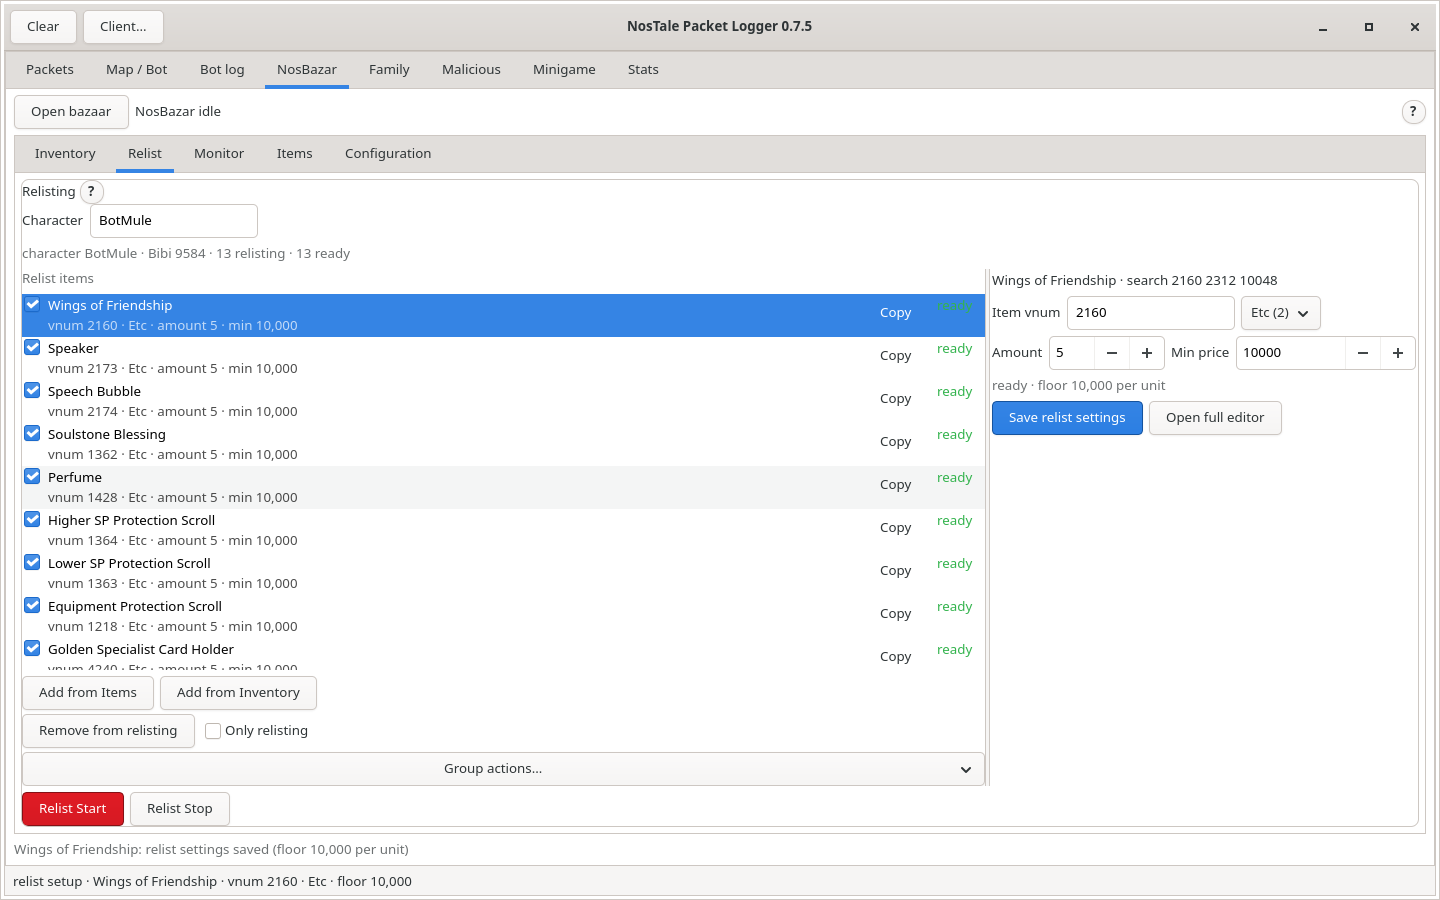
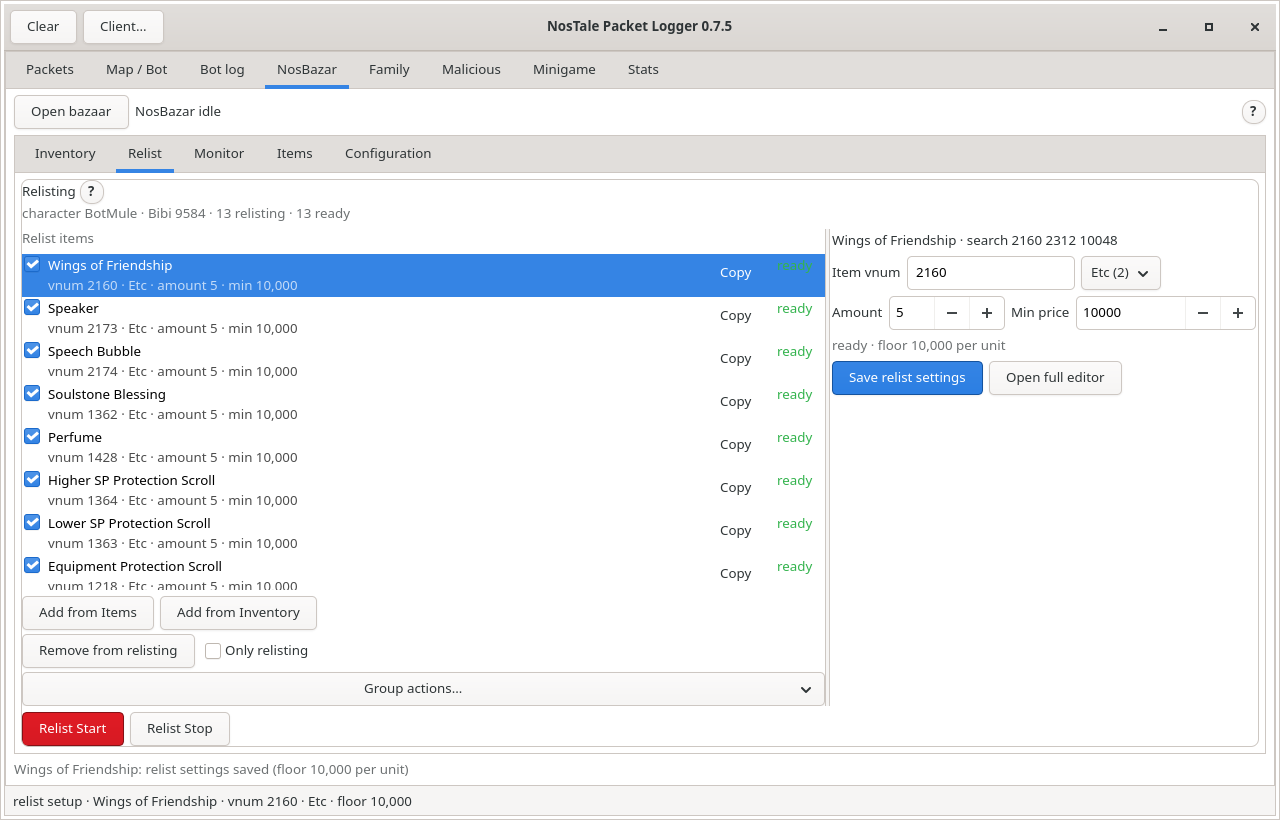
Relist without a name field; show the name above HP/MP
The character name no longer has to be filled in anywhere:

- The Relist section drops the Character row. Own listings are matched
  by character id: BazarListing now carries the rc_blist owner id (field
  1), the controller compares it with self_id, and falls back to the
  seller list's owner id (the seller tab lists only our listings) when
  the position packet was missed.
- start_relist no longer requires config.character; the name remains a
  fallback for matching when no id is known.
- The relist info line uses the detected name and no longer says
  'character missing'.

The Character frame on Map/Bot now shows the character name in bold
above the HP/MP bars, from WorldState.self_name (config fallback).

Tests: relist starts with no name; own listing detected by owner id;
existing name-match tests still pass. Map/relist screenshots regenerated.

diff --git a/linux/host/ntpl/gui.py b/linux/host/ntpl/gui.py
@@ -560,6 +560,7 @@ class Application(Gtk.Application):
         self.player_targets: dict[int, tuple[int, float]] = {}
         self.attack_unknown_toggle = None
         self.recover_banner = None
+        self.char_name = None
         self.unknown_warn_at = 0.0
 
         self.waypoints: list[tuple[int, int]] = []
@@ -3145,11 +3146,13 @@ class Application(Gtk.Application):
         label = self.bazar_relist_info
         if label is None:
             return
-        character = ""
-        if self.bazar_character_entry is not None:
+        character = (
+            self.engine.world.self_name
+            or self.bazar.config.character
+            or ""
+        ).strip()
+        if not character and self.bazar_character_entry is not None:
             character = self.bazar_character_entry.get_text().strip()
-        if not character:
-            character = self.bazar.config.character.strip()
         npc = ""
         if self.bazar_npc_entry is not None:
             npc = self.bazar_npc_entry.get_text().strip()
@@ -3174,12 +3177,16 @@ class Application(Gtk.Application):
             for item in self.bazar.config.items
             if self._bazar_relist_ready(item)
         )
-        parts = [
-            f"character {character}" if character else "character missing",
-            f"Bibi {npc}" if npc else "Bibi id missing",
-            f"{tracked} relisting",
-            f"{ready} ready",
-        ]
+        parts = []
+        if character:
+            parts.append(f"character {character}")
+        parts.extend(
+            [
+                f"Bibi {npc}" if npc else "Bibi id missing",
+                f"{tracked} relisting",
+                f"{ready} ready",
+            ]
+        )
         label.set_text(" · ".join(parts))
 
     @staticmethod
@@ -4339,22 +4346,16 @@ class Application(Gtk.Application):
         page.set_margin_end(6)
         content = Gtk.Box(orientation=Gtk.Orientation.VERTICAL, spacing=6)
 
+        # The character is detected from packets (self spawn, party list,
+        # seller-list owner id), so the Relist UI never asks for a name.  The
+        # entry stays as an internal fallback for the config/older callers
+        # and is deliberately not added to the layout.
         self.bazar_character_entry = Gtk.Entry()
         self.bazar_character_entry.set_placeholder_text("your character")
         self.bazar_character_entry.set_max_length(40)
         self.bazar_character_entry.set_width_chars(18)
-        self.bazar_character_entry.set_tooltip_text(
-            "Filled from the attached character automatically; used to "
-            "recognise your own listing."
-        )
         self.bazar_character_entry.connect(
             "changed", lambda *_: self._bazar_update_relist_info()
-        )
-        content.append(
-            self._field_row(
-                Gtk.Label(label="Character"),
-                self.bazar_character_entry,
-            )
         )
 
         self.bazar_relist_info = Gtk.Label(label="")
@@ -4441,10 +4442,10 @@ class Application(Gtk.Application):
                     "Select an item, set the "
                     "exact Item vnum, the inventory Tab and the Amount, "
                     "then a positive Min price (the per-unit floor). "
-                    "Character is filled from the attached client "
-                    "automatically (type it only when the client was "
-                    "attached before its name was seen) so the host never "
-                    "undercuts you. Relist Start needs nothing else: it "
+                    "Your own listings are recognised by character id (or "
+                    "the name from the client's spawn/party list), so there "
+                    "is no name field to fill. Relist Start needs nothing "
+                    "else: it "
                     "searches only the relist set and sends one c_reg per "
                     "eligible item per pass at cheapest minus one gold, "
                     "but never below the floor. If you already have a "
@@ -5334,8 +5335,15 @@ class Application(Gtk.Application):
         sidebar.set_margin_start(2)
         sidebar.set_margin_end(2)
 
-        # Character: live HP/MP bars and position.
+        # Character: the name above live HP/MP bars and the position.
         char_box = Gtk.Box(orientation=Gtk.Orientation.VERTICAL, spacing=4)
+        self.char_name = Gtk.Label()
+        self.char_name.set_xalign(0)
+        self.char_name.set_ellipsize(Pango.EllipsizeMode.END)
+        self.char_name.set_tooltip_text(
+            "The attached character's name, from its spawn or party list."
+        )
+        char_box.append(self.char_name)
         self.stats_area = Gtk.DrawingArea()
         self.stats_area.set_content_height(92)
         self.stats_area.set_draw_func(self._draw_stats)
@@ -8629,6 +8637,16 @@ class Application(Gtk.Application):
         if self.char_info is None:
             return
         world = self.engine.world
+        name = (
+            world.self_name or self.bazar.config.character or ""
+        ).strip()
+        if self.char_name is not None:
+            if name:
+                self.char_name.set_markup(
+                    f"<b>{GLib.markup_escape_text(name)}</b>"
+                )
+            else:
+                self.char_name.set_text("")
         parts = []
         if world.map_id is not None:
             parts.append(f"map {world.map_id}")

diff --git a/linux/host/ntpl/bazar.py b/linux/host/ntpl/bazar.py
@@ -180,10 +180,14 @@ class BazarListing:
     seller: str = ""
     vnum: int | None = None
     amount: int | None = None
+    #: The seller's character id (field 1). The relist compares it with our
+    #: own id so it recognises our listing without knowing our name.
+    owner_id: int | None = None
 
     def to_dict(self) -> dict[str, Any]:
         return {
             "seller": self.seller,
+            "owner_id": self.owner_id,
             "price": self.price,
             "vnum": self.vnum,
             "amount": self.amount,
@@ -277,6 +281,11 @@ def parse_rc_blist(text: str) -> BazarResponse:
                 amount = int(fields[4])
             except ValueError:
                 pass
+        owner_id = None
+        try:
+            owner_id = int(fields[1])
+        except (IndexError, ValueError):
+            pass
         listings.append(
             BazarListing(
                 raw_fields=fields,
@@ -284,6 +293,7 @@ def parse_rc_blist(text: str) -> BazarResponse:
                 seller=fields[2],
                 vnum=vnum,
                 amount=amount,
+                owner_id=owner_id,
             )
         )
     return BazarResponse(
@@ -1259,13 +1269,13 @@ class BazarController:
     def start_relist(
         self, world: "WorldState", refresh: float | None = None
     ) -> bool:
-        if not self.config.character:
-            self.last_error = (
-                "relist needs your character name (to avoid undercutting "
-                "your own listing)"
-            )
-            self._log(self.last_error)
-            return False
+        """Start relisting; the character name is not required.
+
+        Our own listings are recognised by character id (the position
+        packet's id, or the owner id of the seller list this pass fetches),
+        so a fresh client never has to type a name.  The configured name
+        stays as a fallback when no id is known yet.
+        """
         return self._start(world, "relist", refresh)
 
     def _start(
@@ -1820,16 +1830,32 @@ class BazarController:
         }
         self._next_send = now + SEARCH_INTERVAL_S
 
+    def _own_id(self, world: "WorldState") -> int | None:
+        """Our character id, without needing the name.
+
+        ``WorldState.self_id`` comes from the position packet.  When a host
+        attached after login and never saw it, the seller tab (requested at
+        the start of every relist pass) lists only our own listings, so any
+        entry's owner id identifies us.
+        """
+        if world.self_id:
+            return int(world.self_id)
+        for entry in world.bazar.seller_entries:
+            if entry.owner_id > 0:
+                return int(entry.owner_id)
+        return None
+
     def _changeable_listings(
         self, world: "WorldState", vnum: int | None
     ) -> list[SellerEntry]:
         """Our listings of ``vnum`` that still offer the in-game Change."""
-        if vnum is None or world.self_id is None:
+        own_id = self._own_id(world)
+        if vnum is None or own_id is None:
             return []
         return [
             entry
             for entry in world.bazar.seller_entries
-            if entry.owner_id == world.self_id
+            if entry.owner_id == own_id
             and entry.vnum == vnum
             and entry.changeable
         ]
@@ -2129,15 +2155,25 @@ class BazarController:
             )
             self._log(f"{self._item_label(item)}: not relisted ({quote.detail})")
             return
+        own_id = self._own_id(world)
+        listing_owner = (
+            quote.listing.owner_id if quote.listing is not None else None
+        )
         own_name = (
             world.self_name or self.config.character or ""
         ).strip()
-        own_key = _name_key(own_name)
-        seller_key = _name_key(quote.seller)
-        if own_name and (
-            quote.seller.strip() == own_name
-            or (own_key and own_key == seller_key)
-        ):
+        if own_id is not None and listing_owner is not None:
+            is_own = int(listing_owner) == own_id
+        elif own_name:
+            own_key = _name_key(own_name)
+            seller_key = _name_key(quote.seller)
+            is_own = (
+                quote.seller.strip() == own_name
+                or bool(own_key and own_key == seller_key)
+            )
+        else:
+            is_own = False
+        if is_own:
             quote.status = "own"
             self._log(
                 f"{self._item_label(item)}: you are already the cheapest "

diff --git a/linux/host/tests/test_bazar.py b/linux/host/tests/test_bazar.py
@@ -1140,11 +1140,35 @@ class ControllerTests(unittest.TestCase):
         # A new cycle keeps the previous row until the new answer arrives.
         self.assertEqual(controller.results["bubbl"].status, "floor")
 
-    def test_relist_requires_character(self) -> None:
+    def test_relist_starts_without_a_character_name(self) -> None:
+        # Own listings are matched by char id (position packet or seller
+        # list), so a fresh client never has to type its name.
         item = BazarItem("a", build_search_packet([1]))
         controller, engine, _clock, _sent = self._controller([item])
-        self.assertFalse(controller.start_relist(engine.world))
-        self.assertIn("character name", controller.last_error)
+        self.assertTrue(controller.start_relist(engine.world))
+        self.assertEqual(controller.last_error, "")
+
+    def test_relist_skips_own_listing_by_owner_id(self) -> None:
+        # No configured name; the listing owner id matches our self id.
+        item = BazarItem(
+            "bubbl",
+            build_search_packet([2174]),
+            vnum=2174,
+            inv_tab=2,
+            amount=5,
+            min_price=1,
+        )
+        controller, engine, clock, sent = self._controller([item])
+        engine.world.self_id = 5119  # the _response owner id
+        engine.feed_text("RECV", "inv 2 7.2174.5")
+        self._open(controller, engine, clock, relist=True)
+        controller.tick(engine.world)
+        engine.feed(
+            Packet(Kind.RECV, _response(44000, "SomeoneElse"), clock.now)
+        )
+        controller.tick(engine.world)
+        self.assertEqual(controller.results["bubbl"].status, "own")
+        self.assertFalse([p for p in sent if p.startswith("c_reg ")])
 
     def test_relist_logs_use_the_display_label(self) -> None:
         # The GUI passes the real Item.dat name; the configured shortcut stays

diff --git a/docs/bazar.md b/docs/bazar.md
@@ -73,9 +73,9 @@ full-width section: **Inventory**, **Relist**, **Monitor**, **Items** and
    amount are filled from the slot), **Remove from relisting** clears the
    selected row and **Only relisting** hides the rest. Set the selected
    item's **Item vnum**, **Tab**, **Amount** and a positive **Min price**
-   (the per-unit floor), then **Save relist settings**. **Character** is
-   filled from the attached client automatically so the host recognises your
-   listing. The list marks
+   (the per-unit floor), then **Save relist settings**. There is no
+   character field: the host recognises your own listings by character id
+   (or the name from the client's spawn/party list). The list marks
    each item **ready**, **needs floor**, **needs vnum/tab**, **not
    relisting** or **disabled**.
 5. Open the **Monitor** section, click **Monitor Start** and watch the
@@ -163,7 +163,7 @@ hides; a search with no priced match says so instead of an empty table.
 - **All-timeout pass** — mark the bazaar closed, drop to waiting so the
   character cannot be flagged for search spam.
 - **Relist** — only in relist mode, only for items in the relist set
-  (`BazarItem.relist`), and only with a character name, a positive
+  (`BazarItem.relist`), and only with a positive
   `min_price` and a cheapest **other** seller. Each relist pass first asks
   the seller tab (`c_slist 0 0 0` → **`rc_slist`**) for our own listings.
   **If we already have a listing of the item with nothing sold, the pass
@@ -323,12 +323,10 @@ row by itself: tick **Relist** (or use Set up relist… / Add from…) to put
 the item in the set.
 
 To run it:
-1. **Character** is filled from the attached client automatically: the
-   self `in 1` spawn (the whole DLL log is searched, not just its tail) or
-   the party/raid list (`rdlst`) names it. Type it only when the client was
-   attached before either packet was seen. It is used to recognise your own
-   listing.
-2. Click **Relist Start** — it is the only gate, nothing else to tick.
+- Click **Relist Start** — it is the only gate, nothing else to tick or
+  fill. Your own listings are recognised by character id: the position
+  packet's id, the seller list fetched at the start of each pass, or the
+  name from the client's self spawn / party list as a fallback.
 
 The controller opens the bazaar if needed, asks the seller tab for our own
 listings (`c_slist 0 0 0`), searches only the relist set at the 2.5 s
@@ -389,8 +387,9 @@ temporary file). Before a client is attached the tab starts empty; when a
 client attaches and has no per-client file, `~/.config/ntpl/bazar.json` is
 loaded as a seed and saved per-client on the next change. The **Configuration**
 section holds the Bibi id, refresh interval, this file and **Reload names**
-(re-read item names after rebuilding the database); the Character name lives
-in the **Relist** section because it only applies to relisting.
+(re-read item names after rebuilding the database); the character name is
+detected from the client and stored in the config (`character`), with no
+field to fill in the Relist section.
 
 Example:
 
@@ -438,11 +437,11 @@ Example:
 
 ## Safety and limits
 
-- **Relist is gated**: the row's **Relist** tick (the relist set), the live
-  checkbox, a character name, a positive `min_price`, a slot in the chosen
+- **Relist is gated**: the row's **Relist** tick (the relist set), a
+  positive `min_price`, a slot in the chosen
   inventory bag with at least the configured amount, and a cheapest listing
   whose vnum is inside the searched group. It never undercuts your own
-  listing.
+  listing (matched by character id, or by name when only the name is known).
 - **Monitor never sends `c_reg`.** The smoke asserts this; **Price all** also
   starts Monitor, so pricing an inventory cannot change a listing.
 - **Pacing**: do not lower the 2.5 s search interval; the game silently drops

diff --git a/README.md b/README.md
@@ -85,8 +85,8 @@ The relist set. Tick a row to add it, untick to keep watching without
 changing its listing; **Add from Items** / **Add from Inventory** / **Remove
 from relisting**, **Only relisting**, Ctrl+click and **Group actions…**. Set
 the exact **Item vnum / Tab / Amount** and a positive **Min price**; the badge
-reads `ready` / `needs floor` / `needs vnum/tab`. With your **Character**
-name filled, **Relist Start** opens the bazaar
+reads `ready` / `needs floor` / `needs vnum/tab`. The character name is
+detected automatically (no field to fill), **Relist Start** opens the bazaar
 itself (Bibi Basar, the portable NosBazar medal, or the client's own
 shortcut), undercuts the cheapest other listing by one gold — never below the
 floor — and charges the bazaar's 50-gold minimum listing fee. If you already

diff --git a/docs/map.md b/docs/map.md
@@ -202,7 +202,8 @@ grouped by function:
   `nosapki.com/images/nt-images/ts-1.png`); if the asset is missing the
   marker falls back to an amber ring. A crossing is the fallback when a
   `gp` list was missed.
-- **Character** — live HP and MP bars with current/max/missing values, plus
+- **Character** — the character's name above live HP and MP bars with
+  current/max/missing values, plus
   map/position/char id. HP and MP are fed by the server's `stat` packets.
   While recovering, a red **RECOVERING** banner states the HP percentage and
   that attacks/movement are paused; all toggle buttons are green when active
